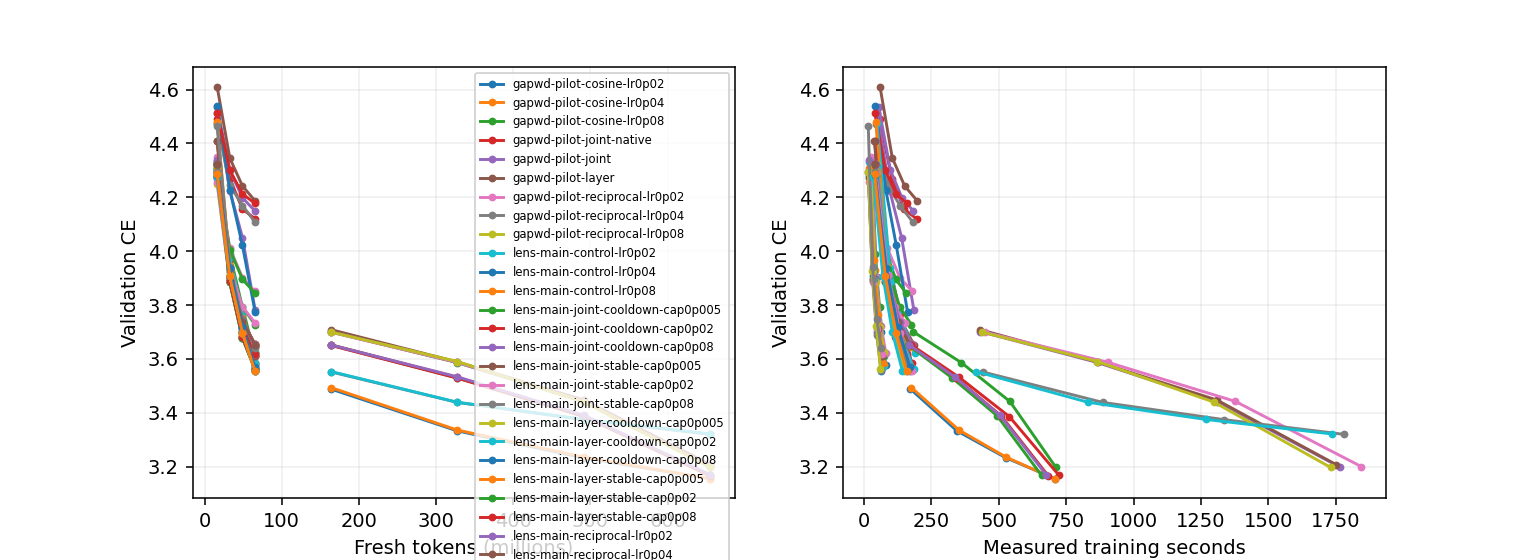
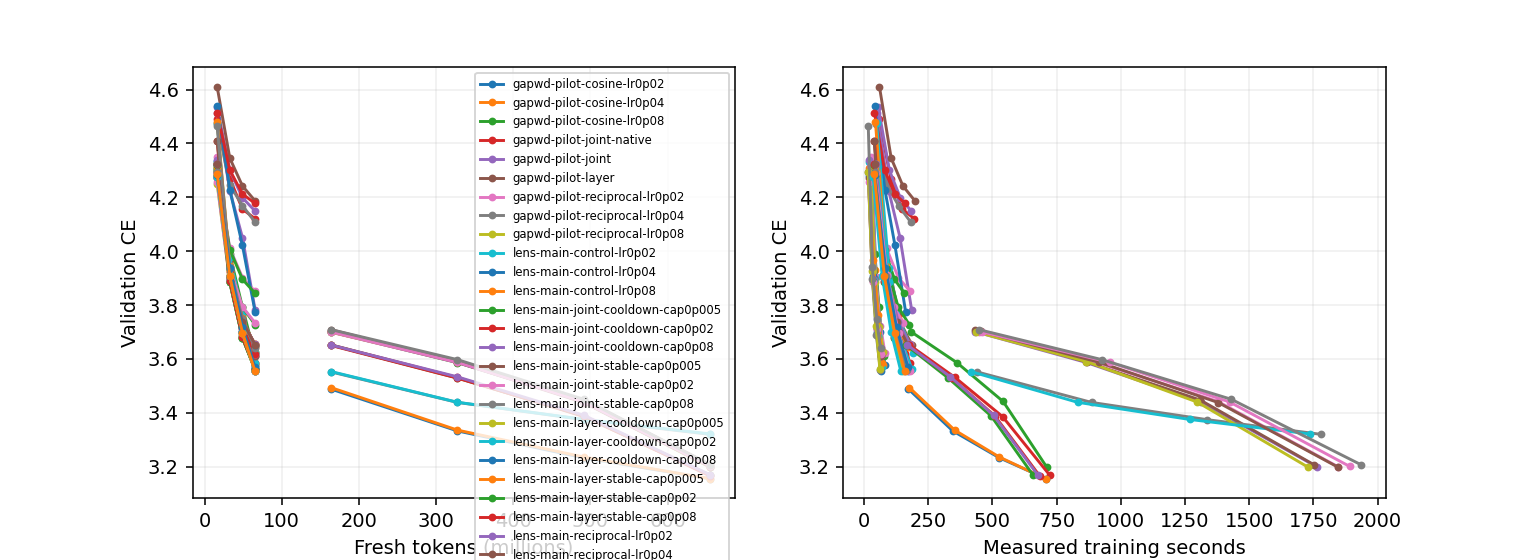
Update live Muon experiment results

diff --git a/research/unnormalized_muon/DETAILED_EVAL.md b/research/unnormalized_muon/DETAILED_EVAL.md
@@ -15,6 +15,9 @@ All results use the B300 fork model/data/tokenizer and a fixed tuning-validation
 | normalized WD standard 0 | 0.0282843 | 20000 | 3.167631 | 658.92 | 741.10 |
 | normalized WD standard 0 | 0.0282843 | 20000 | 3.164999 | 684.42 | 745.36 |
 | normalized WD standard 0 | 0.0282843 | 20000 | 3.169816 | 676.02 | 733.38 |
+| normalized WD standard 0 | 0.04 | 20000 | 3.198918 | 1844.40 | 1934.59 |
+| normalized WD standard 0 | 0.04 | 20000 | 3.201077 | 1891.19 | 1981.90 |
+| normalized WD standard 0 | 0.04 | 20000 | 3.206757 | 1936.58 | 2028.32 |
 | normalized WD standard 0 | 0.04 | 20000 | 3.199618 | 710.50 | 788.71 |
 | normalized WD standard 0 | 0.0282843 | 20000 | 3.168332 | 723.17 | 786.20 |
 | normalized WD standard 0 | 0.04 | 20000 | 3.199090 | 1763.98 | 1834.23 |
@@ -292,6 +295,24 @@ Timing seconds: direction=1.317, reference=0.399, candidates=0.395, auxiliary=0.
 | um-lens-confirm-control-s10 | cooldown native | 0.1837499 | 20000 | 3.167631 | 0 | 741.10 |
 | um-lens-confirm-control-s11 | cooldown native | 0.1837499 | 20000 | 3.164999 | 0 | 745.36 |
 | um-lens-confirm-control-s12 | cooldown native | 0.1837499 | 20000 | 3.169816 | 0 | 733.38 |
+| um-lens-confirm-joint-s10 | joint native | 0.1837499 | 20000 | 3.198918 | 60004 | 1934.59 |
+
+um-lens-confirm-joint-s10: accepted 20000/20000; skipped nonpositive blocks 392; median actual eta 0.0077854; median gamma 0.00143057; median L 0.02; median trials 2; max measured spectral ratio lambda*||W||op=0.298774. Native approximate NS can violate the ideal unit-oracle premise; this is recorded, not hidden.
+
+Timing seconds: direction=599.766, reference=146.716, candidates=287.547, auxiliary=17.974.
+
+| um-lens-confirm-joint-s11 | joint native | 0.1837499 | 20000 | 3.201077 | 60004 | 1981.90 |
+
+um-lens-confirm-joint-s11: accepted 20000/20000; skipped nonpositive blocks 376; median actual eta 0.0077854; median gamma 0.00143057; median L 0.02; median trials 2; max measured spectral ratio lambda*||W||op=0.26652. Native approximate NS can violate the ideal unit-oracle premise; this is recorded, not hidden.
+
+Timing seconds: direction=631.967, reference=149.317, candidates=291.686, auxiliary=18.663.
+
+| um-lens-confirm-joint-s12 | joint native | 0.1837499 | 20000 | 3.206757 | 60004 | 2028.32 |
+
+um-lens-confirm-joint-s12: accepted 20000/20000; skipped nonpositive blocks 465; median actual eta 0.0077854; median gamma 0.00143057; median L 0.02; median trials 2; max measured spectral ratio lambda*||W||op=0.307328. Native approximate NS can violate the ideal unit-oracle premise; this is recorded, not hidden.
+
+Timing seconds: direction=687.736, reference=150.582, candidates=295.063, auxiliary=18.164.
+
 | um-lens-creative-ema0p5 | layer native | 0.1837499 | 2000 | 3.555660 | 4000 | 247.79 |
 
 um-lens-creative-ema0p5: accepted 2000/2000; skipped nonpositive blocks 90; median actual eta 0.00757385; median gamma 0.00139169; median L 1e-16; median trials 1; max measured spectral ratio lambda*||W||op=0.405719. Native approximate NS can violate the ideal unit-oracle premise; this is recorded, not hidden.

diff --git a/research/unnormalized_muon/RESULTS.md b/research/unnormalized_muon/RESULTS.md
@@ -70,6 +70,7 @@ One B300 per job. CE is token cross-entropy (nats); lower is better. Rows with d
 | um-lens-confirm-control-s10 | Clean Native cooldown v2 c-in-Q fixed_lambda=0.18375 WD:standard(0) | 20000 | 10 | 0.0282843 | 3.167631 | 0.960357 | 3.114569 | 741.10 |
 | um-lens-confirm-control-s11 | Clean Native cooldown v2 c-in-Q fixed_lambda=0.18375 WD:standard(0) | 20000 | 11 | 0.0282843 | 3.164999 | 0.959575 | 3.110158 | 745.36 |
 | um-lens-confirm-control-s12 | Clean Native cooldown v2 c-in-Q fixed_lambda=0.18375 WD:standard(0) | 20000 | 12 | 0.0282843 | 3.169816 | 0.960987 | 3.114145 | 733.38 |
+| um-lens-confirm-joint-s10 | Clean GapWD joint uniform v2 c-in-Q quadratic cap0.01/cooldown fixed_lambda=0.18375 WD:standard(0) | 20000 | 10 | 0.04 | 3.198918 | 0.969828 | 3.144965 | 1934.59 |
 | um-lens-creative-ema0p5 | Clean GapWD layer uniform v2 c-in-Q armijo cap0.01/cooldown fixed_lambda=0.18375 WD:standard(0) | 2000 | 0 | 0.04 | 3.555660 | 1.077899 | — | 247.79 |
 | um-lens-creative-ema0p9 | Clean GapWD layer uniform v2 c-in-Q armijo cap0.01/cooldown fixed_lambda=0.18375 WD:standard(0) | 2000 | 0 | 0.04 | 3.558717 | 1.078825 | — | 229.92 |
 | um-lens-creative-periodic2 | Clean GapWD joint uniform v2 c-in-Q quadratic cap0.01/cooldown fixed_lambda=0.18375 WD:standard(0) | 2000 | 0 | 0.04 | 3.554936 | 1.077708 | — | 243.89 |
@@ -178,7 +179,7 @@ One B300 per job. CE is token cross-entropy (nats); lower is better. Rows with d
 
 Review of um-fw-diagnostic-001: Compiled training f0 compared against functional candidate losses; vanishing-step mismatch2-4e-5 exceeded tolerance, leading to curvature1e186 and45 skipped steps. Replaced by paired functional reference and candidates; retain all645 measured forwards and GPUcost.
 
-Conservative charged/reserved total: 19.9832 / 30 B300 GPU-hours. Includes prior smoke/failed attempts and current maximum-duration reservations. Six-slot central queue; one B300 per run.
+Conservative charged/reserved total: 23.5433 / 30 B300 GPU-hours. Includes prior smoke/failed attempts and current maximum-duration reservations. Six-slot central queue; one B300 per run.
 
 CLEAN geometry disables row equilibration and NorMuon. Original clean runs use zero matrix decay; new WD runs explicitly label standard or cautious decay and their CLI coefficient. Same five Polar Express steps and Frobenius correction; scale by the per-matrix nonnegative FP32 inner product of the native Nesterov input with the NS/Frobenius direction. Shape scaling occurs once outside the scalar. Legacy rows retain production extras and must be compared separately. Constant schedule changes only matrix LR; auxiliary schedules and momentum remain matched.
 

diff --git a/research/unnormalized_muon/FW_LENS_RESULTS.md b/research/unnormalized_muon/FW_LENS_RESULTS.md
@@ -20,6 +20,9 @@ Token-based schedule curves are descriptive. Independently scheduled equal-time 
 | um-lens-confirm-control-s10 | control | 20000 updates | 10 | 3.167631 | 3.114569 | 661.345 | 0 | 33.696 | 741.10 |
 | um-lens-confirm-control-s11 | control | 20000 updates | 11 | 3.164999 | 3.110158 | 686.883 | 0 | 25.427 | 745.36 |
 | um-lens-confirm-control-s12 | control | 20000 updates | 12 | 3.169816 | 3.114145 | 678.993 | 0 | 23.899 | 733.38 |
+| um-lens-confirm-joint-s10 | joint-cooldown | 20000 updates | 10 | 3.198918 | 3.144965 | 1847.886 | 60004 | 38.446 | 1934.59 |
+| um-lens-confirm-joint-s11 | joint-cooldown | 20000 updates | 11 | 3.201077 | 3.144870 | 1895.864 | 60004 | 38.133 | 1981.90 |
+| um-lens-confirm-joint-s12 | joint-cooldown | 20000 updates | 12 | 3.206757 | 3.150027 | 1940.676 | 60004 | 38.451 | 2028.32 |
 | um-lens-creative-ema0p5 | layer-ema | 2000 updates | 0 | 3.555660 | — | 177.247 | 4000 | 33.839 | 247.79 |
 | um-lens-creative-ema0p9 | layer-ema | 2000 updates | 0 | 3.558717 | — | 165.360 | 4000 | 31.419 | 229.92 |
 | um-lens-creative-periodic2 | joint-periodic | 2000 updates | 0 | 3.554936 | — | 151.717 | 3001 | 43.345 | 243.89 |
@@ -86,6 +89,9 @@ Contraction is the actual coefficient product_t(1-lambda*eta_l,t), represented i
 | um-lens-check-5-creative | 64/64 | 0 | 0.011606 | 0.0021326 | 1.7462e-12 | 1 | -0.1297 to -0.09009 | 0.379675 |
 | um-lens-check-6-periodic | 16/64 | 48 | 0.0042842 | 0.00078723 | 0.0075 | 0 | -0.06363 to -0.06363 | 0.366569 |
 | um-lens-check-8-warm-time-layer | 50/50 | 0 | 0.02 | 0.003675 | 2.2352e-10 | 1 | -0.179 to -0.1481 | 0.537713 |
+| um-lens-confirm-joint-s10 | 20000/20000 | 0 | 0.0077854 | 0.0014306 | 0.02 | 2 | -25.39 to -25.39 | 0.298774 |
+| um-lens-confirm-joint-s11 | 20000/20000 | 0 | 0.0077854 | 0.0014306 | 0.02 | 2 | -25.39 to -25.39 | 0.26652 |
+| um-lens-confirm-joint-s12 | 20000/20000 | 0 | 0.0077854 | 0.0014306 | 0.02 | 2 | -25.39 to -25.39 | 0.307328 |
 | um-lens-creative-ema0p5 | 2000/2000 | 0 | 0.0075738 | 0.0013917 | 1e-16 | 1 | -2.506 to -2.438 | 0.405719 |
 | um-lens-creative-ema0p9 | 2000/2000 | 0 | 0.0074569 | 0.0013702 | 1e-16 | 1 | -2.491 to -2.298 | 0.410554 |
 | um-lens-creative-periodic2 | 1000/2000 | 1000 | 0.0075921 | 0.0013951 | 0.01 | 0.5 | -2.507 to -2.507 | 0.389011 |
